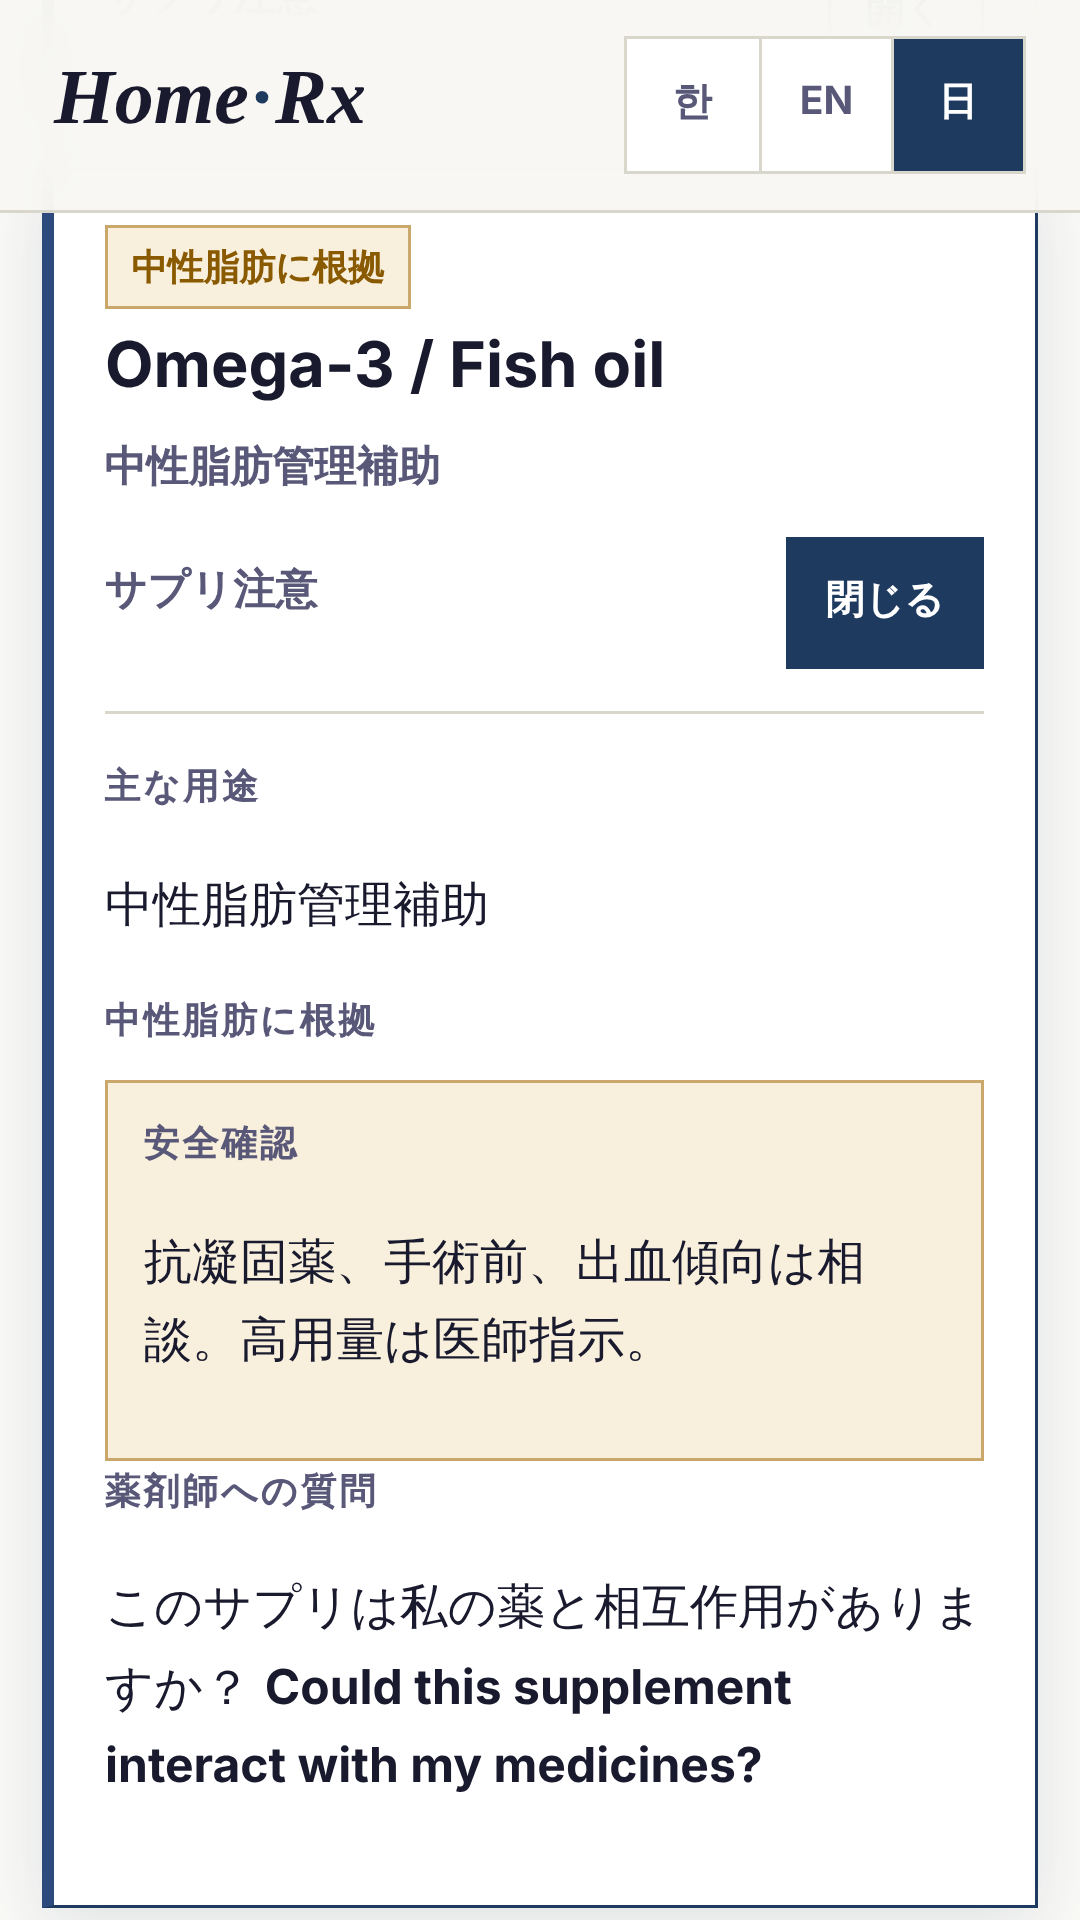
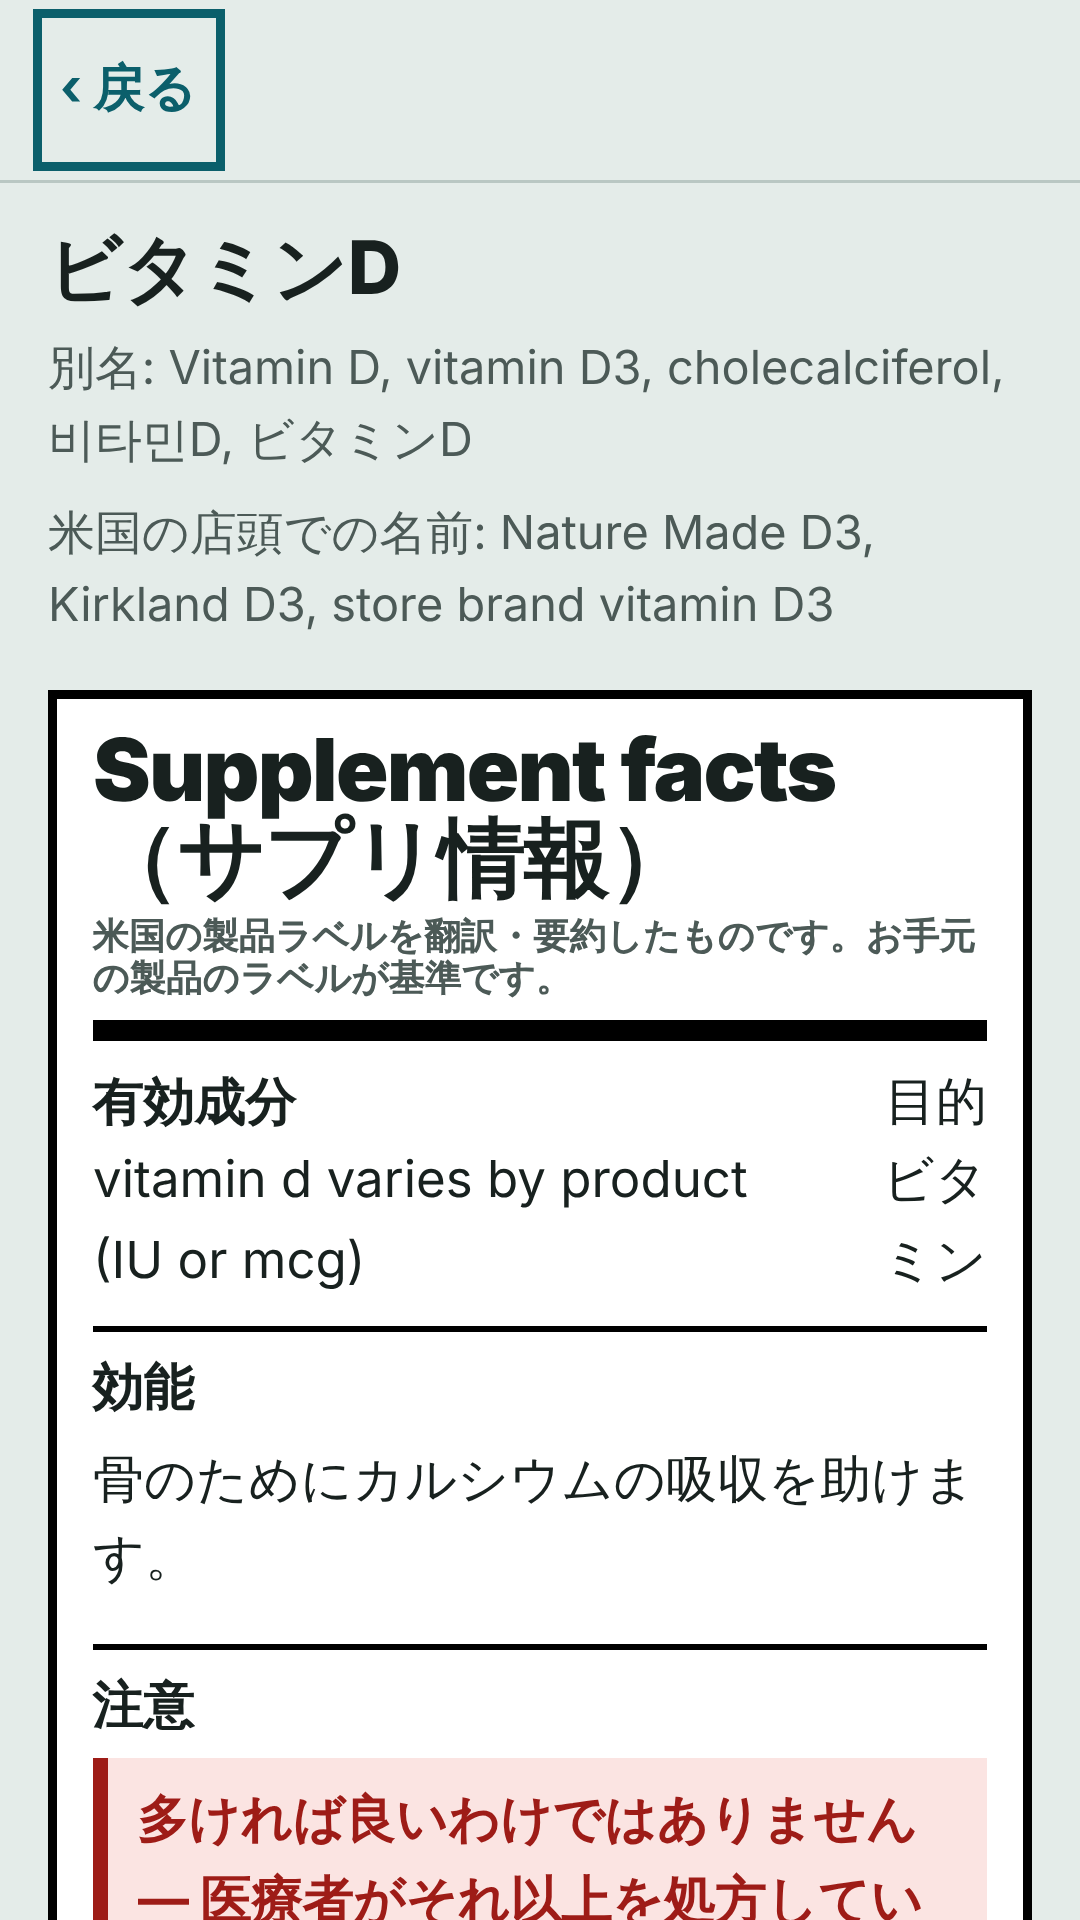
HomeRx v2 listing: screenshots and entry count
Claude-Session: https://claude.ai/code/session_01HZtoQik3mjx6zLhvzHAzzR

diff --git a/android/listing/listing.md b/android/listing/listing.md
@@ -3,7 +3,7 @@
 Package `com.hakoya.homerx` · Free · Developer: HAKOYA LLC
 
 Every claim below was checked against the v2 app (index.html built by v2/build.py, version
-2.0.0, 81 entries, 12 Korea/Japan items). The listing never calls it medical advice, a diagnostic
+2.0.0, 82 entries, 12 Korea/Japan items). The listing never calls it medical advice, a diagnostic
 tool, or FDA approved/registered/cleared.
 
 ## App details
@@ -40,7 +40,7 @@ HomeRx explains the over-the-counter (OTC) medicines and dietary supplements sol
 It is made for immigrants, older adults, caregivers and students: anyone who stands in a pharmacy aisle and finds the labels hard to follow. HomeRx is an educational reference. It does not diagnose or prescribe, and it does not replace your pharmacist or doctor.
 
 DRUG FACTS, TRANSLATED
-• 81 entries: pain and fever, allergy, cold and cough, nose, eye and ear, stomach, constipation, motion sickness, skin, first aid, mouth, sleep, women's health, quitting smoking, vitamins, minerals and herbal supplements.
+• 82 entries: pain and fever, allergy, cold and cough, nose, eye and ear, stomach, constipation, motion sickness, skin, first aid, mouth, sleep, women's health, quitting smoking, vitamins, minerals and herbal supplements.
 • Each medicine is summarized in the same order as the U.S. Drug Facts label: active ingredient, uses, warnings, directions, and when to stop and ask a doctor.
 • Every entry lists its sources (DailyMed labels, NIH Office of Dietary Supplements, NCCIH, CDC) and the date it was checked.
 • Supplements show the recommended amount, the upper limit, what the evidence says, and the medicines they interact with.
@@ -76,13 +76,14 @@ Made by HAKOYA LLC, Texas.
 | Feature graphic 1024×500 | `feature-1024x500.png` | HomeRx wordmark, language buttons and a real screen from the store build |
 | Phone screenshots 1080×1920 (9:16) | `screenshots/` | Captured from the store build (android/www) at 360×640 dp, ×3 |
 
-Screenshots, in upload order:
-1. `2-home-en.png` — home screen, emergency line, purpose
-2. `3-search-entry-en.png` — search "ibuprofen", entry opened
-3. `4-category-ko.png` — Sleep category in Korean, entry opened
-4. `5-supplement-ja.png` — Omega-3 / Fish oil supplement in Japanese, evidence badge and safety check
-5. `6-phrases-en.png` — English phrases to show a pharmacist
-6. `1-disclaimer-en.png` — the disclaimer shown before first use
+Screenshots, in upload order (store build, 360×640 dp ×3 = 1080×1920):
+1. `1-find-en.png` — Find screen, categories, emergency numbers
+2. `2-drugfacts-en.png` — Acetaminophen, translated Drug Facts panel
+3. `3-cabinet-en.png` — My cabinet warning about acetaminophen twice and two NSAIDs
+4. `4-from-home-ko.png` — Korean medicines and their U.S. equivalents (Korean UI)
+5. `5-supplement-ja.png` — Vitamin D supplement facts in Japanese
+6. `6-learn-en.png` — How to read a Drug Facts label
+7. `7-notice-en.png` — the notice shown before first use
 
 ## Privacy policy
 

diff --git a/android/listing/listing-ko.md b/android/listing/listing-ko.md
@@ -17,7 +17,7 @@ HomeRx는 미국 약국에서 파는 일반의약품(OTC)과 건강보조제를 
 이민자, 어르신, 보호자, 유학생처럼 약국 진열대 앞에서 영어 라벨이 어려운 분들을 위해 만들었습니다. HomeRx는 교육용 참고 자료입니다. 진단이나 처방을 하지 않으며 약사나 의사를 대신하지 않습니다.
 
 Drug Facts를 우리말로
-• 81개 항목: 통증·열, 알레르기, 감기·기침, 코, 눈·귀, 위장, 변비, 멀미, 피부, 응급처치, 구강, 수면, 여성 건강, 금연, 비타민·미네랄·허브 보충제
+• 82개 항목: 통증·열, 알레르기, 감기·기침, 코, 눈·귀, 위장, 변비, 멀미, 피부, 응급처치, 구강, 수면, 여성 건강, 금연, 비타민·미네랄·허브 보충제
 • 약마다 미국 Drug Facts 라벨과 같은 순서로 정리: 유효성분, 효능, 경고, 복용법, 중단하고 의사에게 물어야 할 때
 • 항목마다 출처(DailyMed 라벨, NIH 보충제 사무국, NCCIH, CDC)와 확인 날짜 표시
 • 보충제는 권장량, 상한, 연구 결과, 함께 먹으면 안 되는 약을 보여 줍니다
